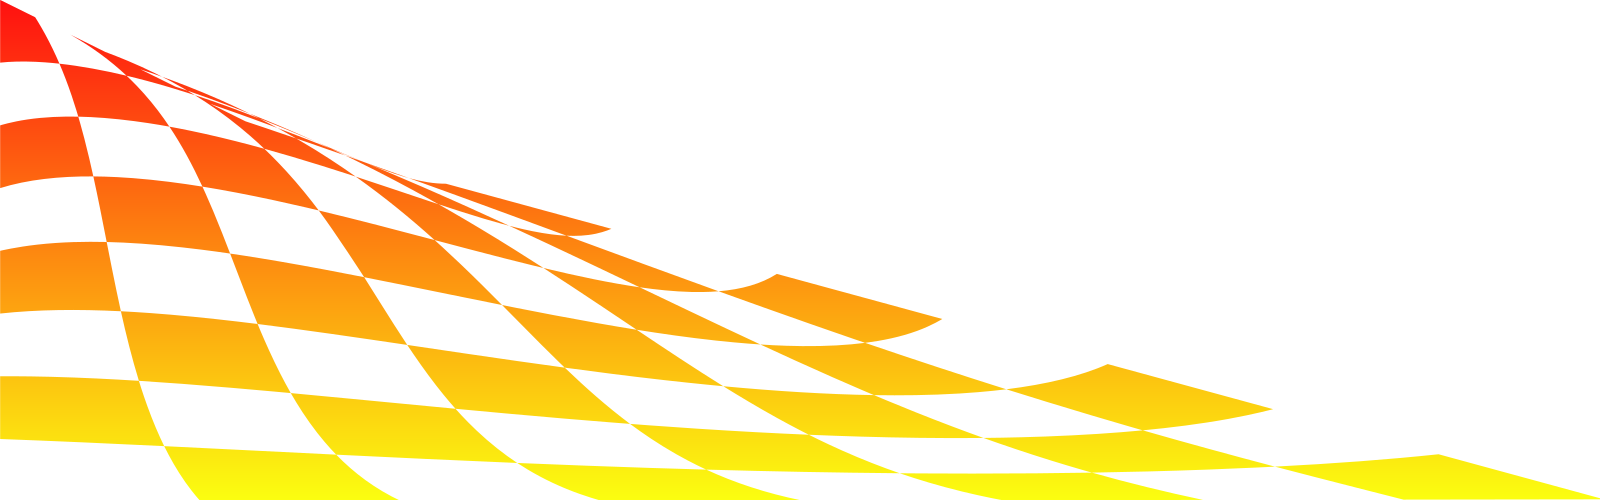
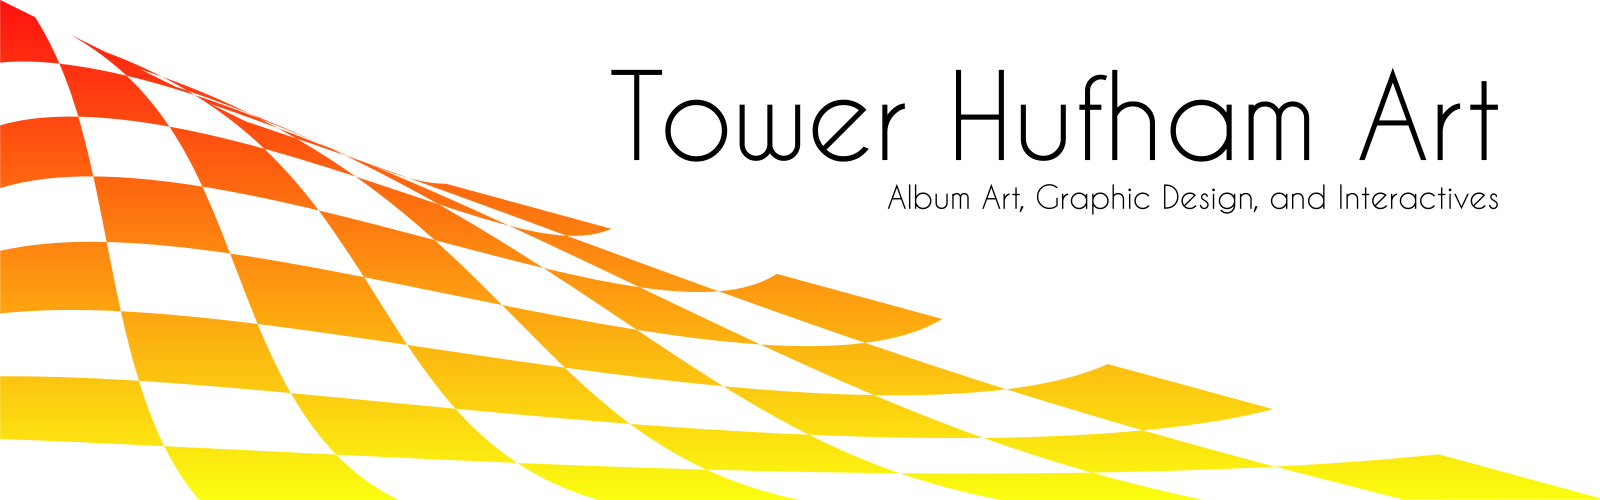
YEAH BOI NOW WE'RE COOKING HELL YEAH THIS IS WHAT IM TALKING ABOUT REAL SHIT BOI REAL SHIT

Changed region(s): [[0.5938, 0.15, 0.9375, 0.33], [0.375, 0.12, 0.5625, 0.33], [0.5625, 0.36, 0.9375, 0.42]]

diff --git a/portfolio.html b/portfolio.html
@@ -49,9 +49,7 @@
 <script src="https://cdn.jsdelivr.net/npm/bootstrap@5.0.0-beta1/dist/js/bootstrap.bundle.min.js" integrity="sha384-ygbV9kiqUc6oa4msXn9868pTtWMgiQaeYH7/t7LECLbyPA2x65Kgf80OJFdroafW" crossorigin="anonymous"></script>
 
 
-<div class="container text-center">
-	<h1>Album Art / Graphic Design Portfolio</h1>
-	<p>HI i do weird stuff with colors nad numbers hire mE!!!!!!!!!!!</p>
+<div class="container text-center mt-5">
 	<img class="img-fluid" src="img/portfolio/Hero Image.png">
 </div>
 
